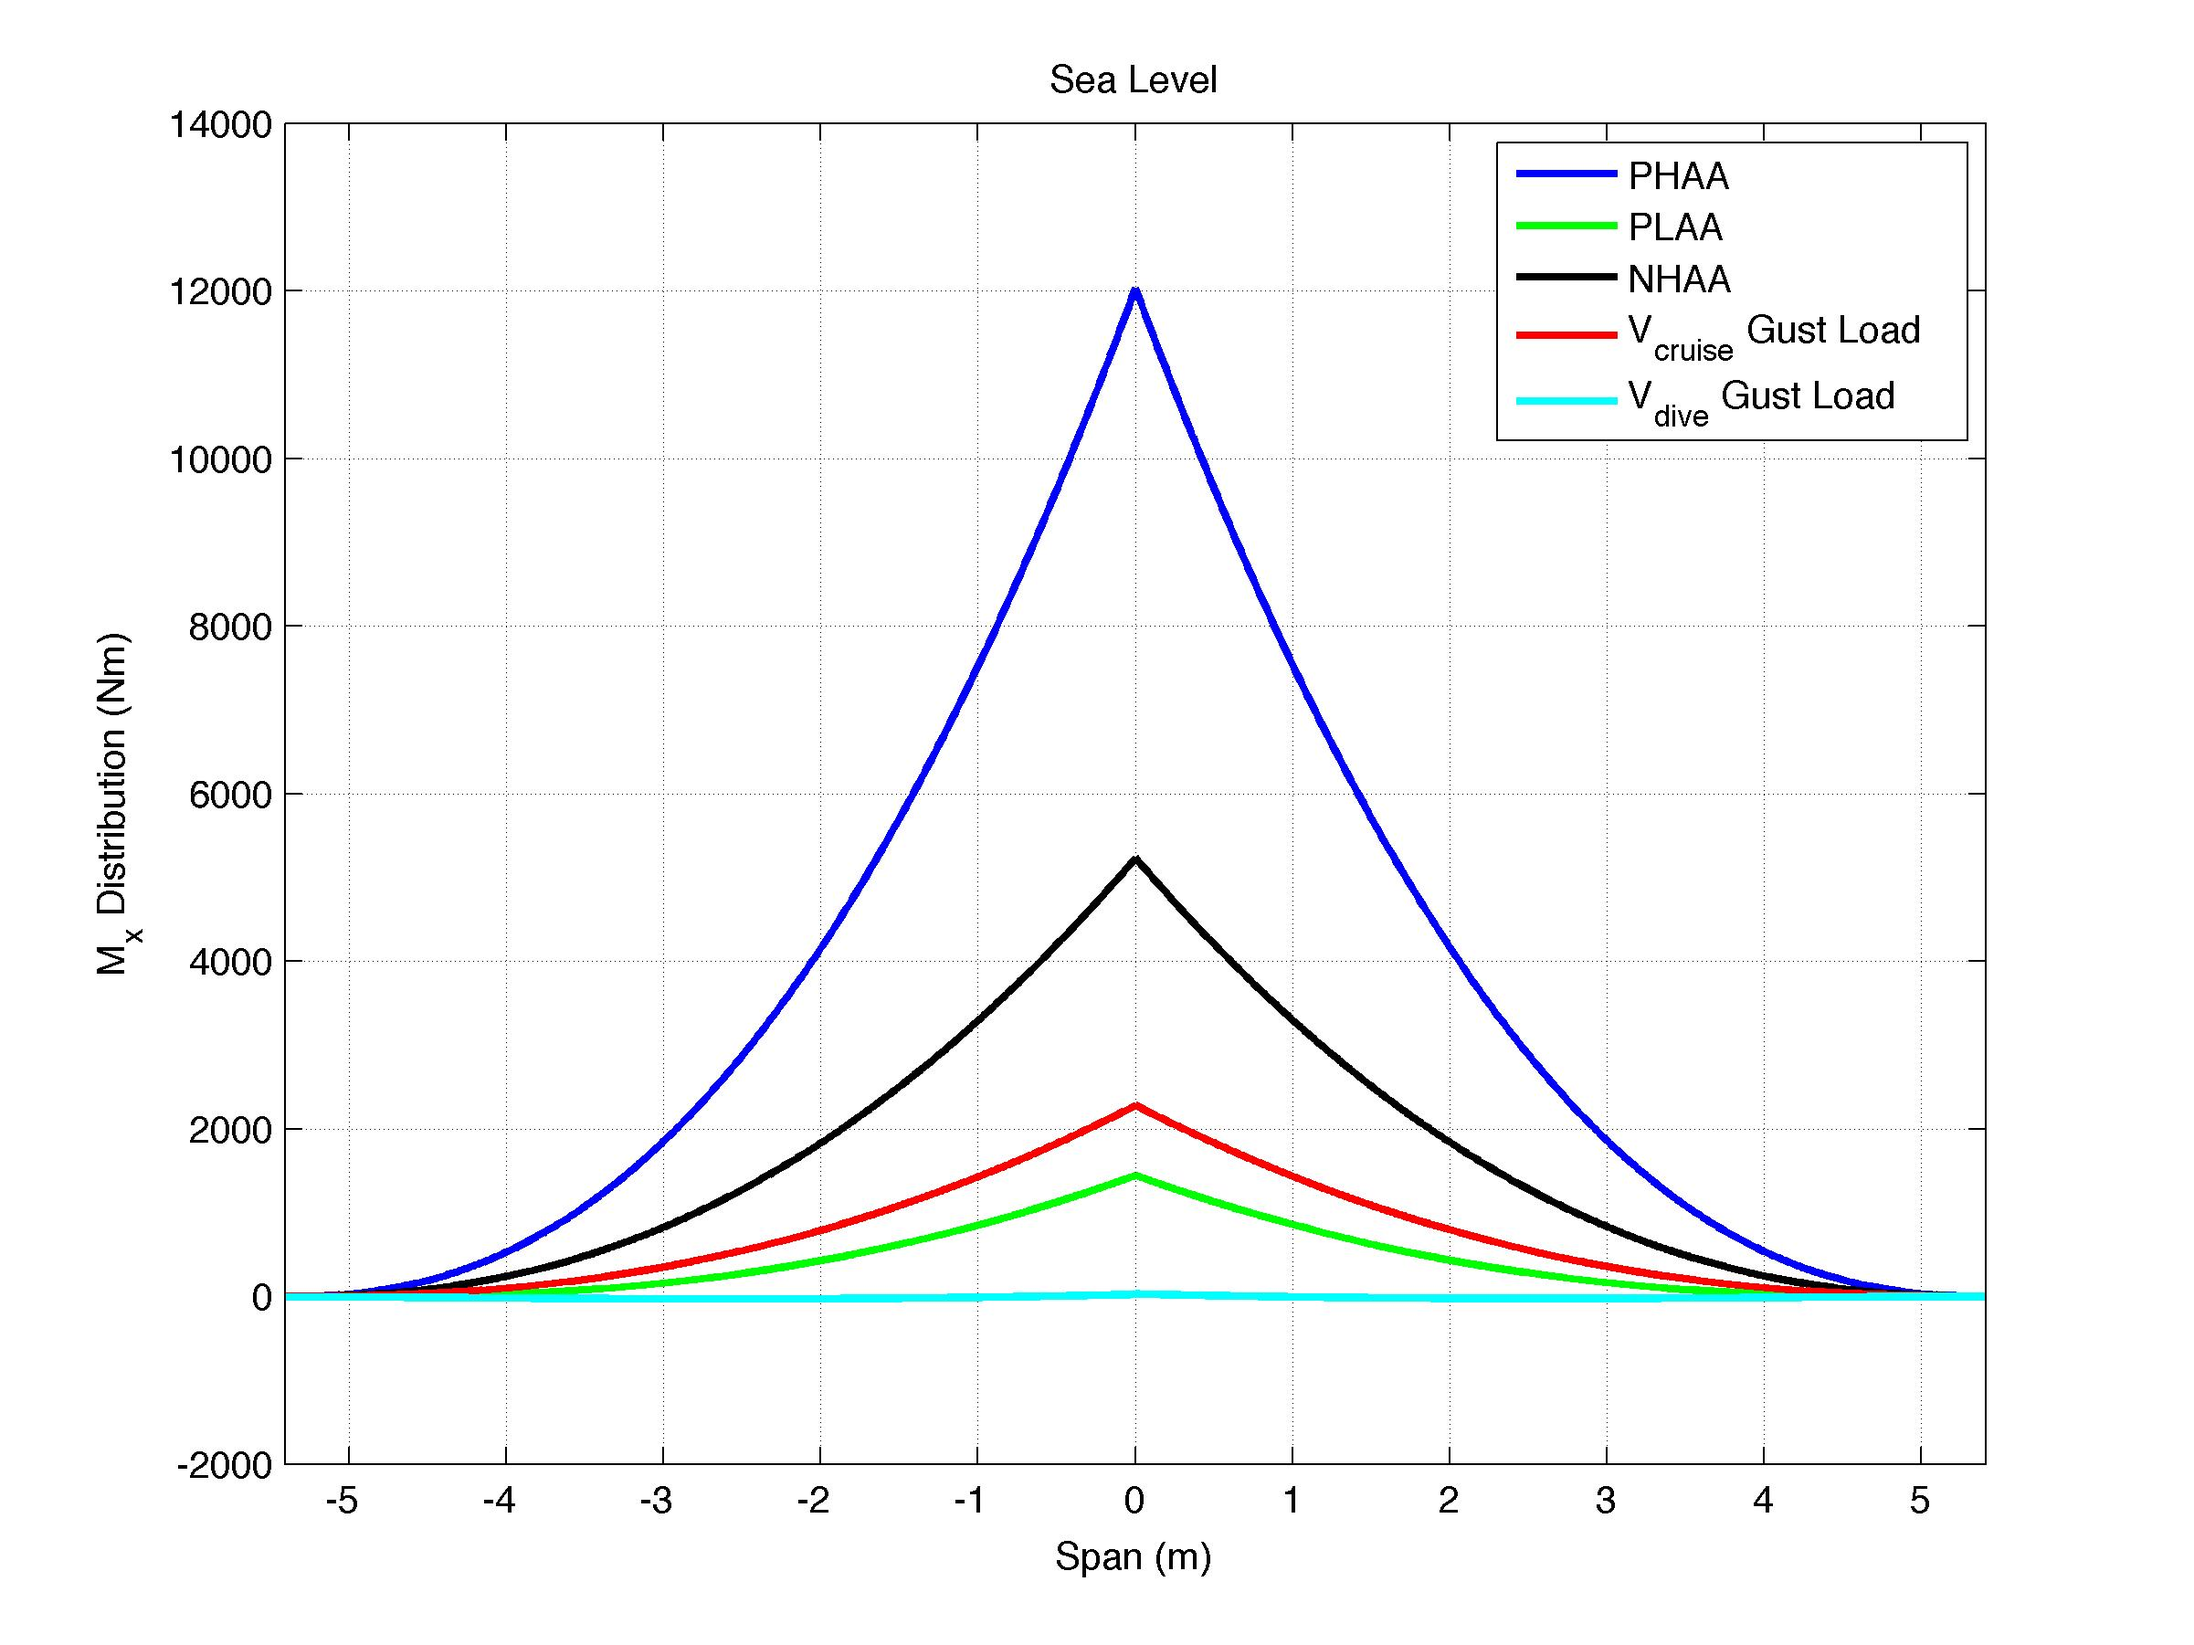
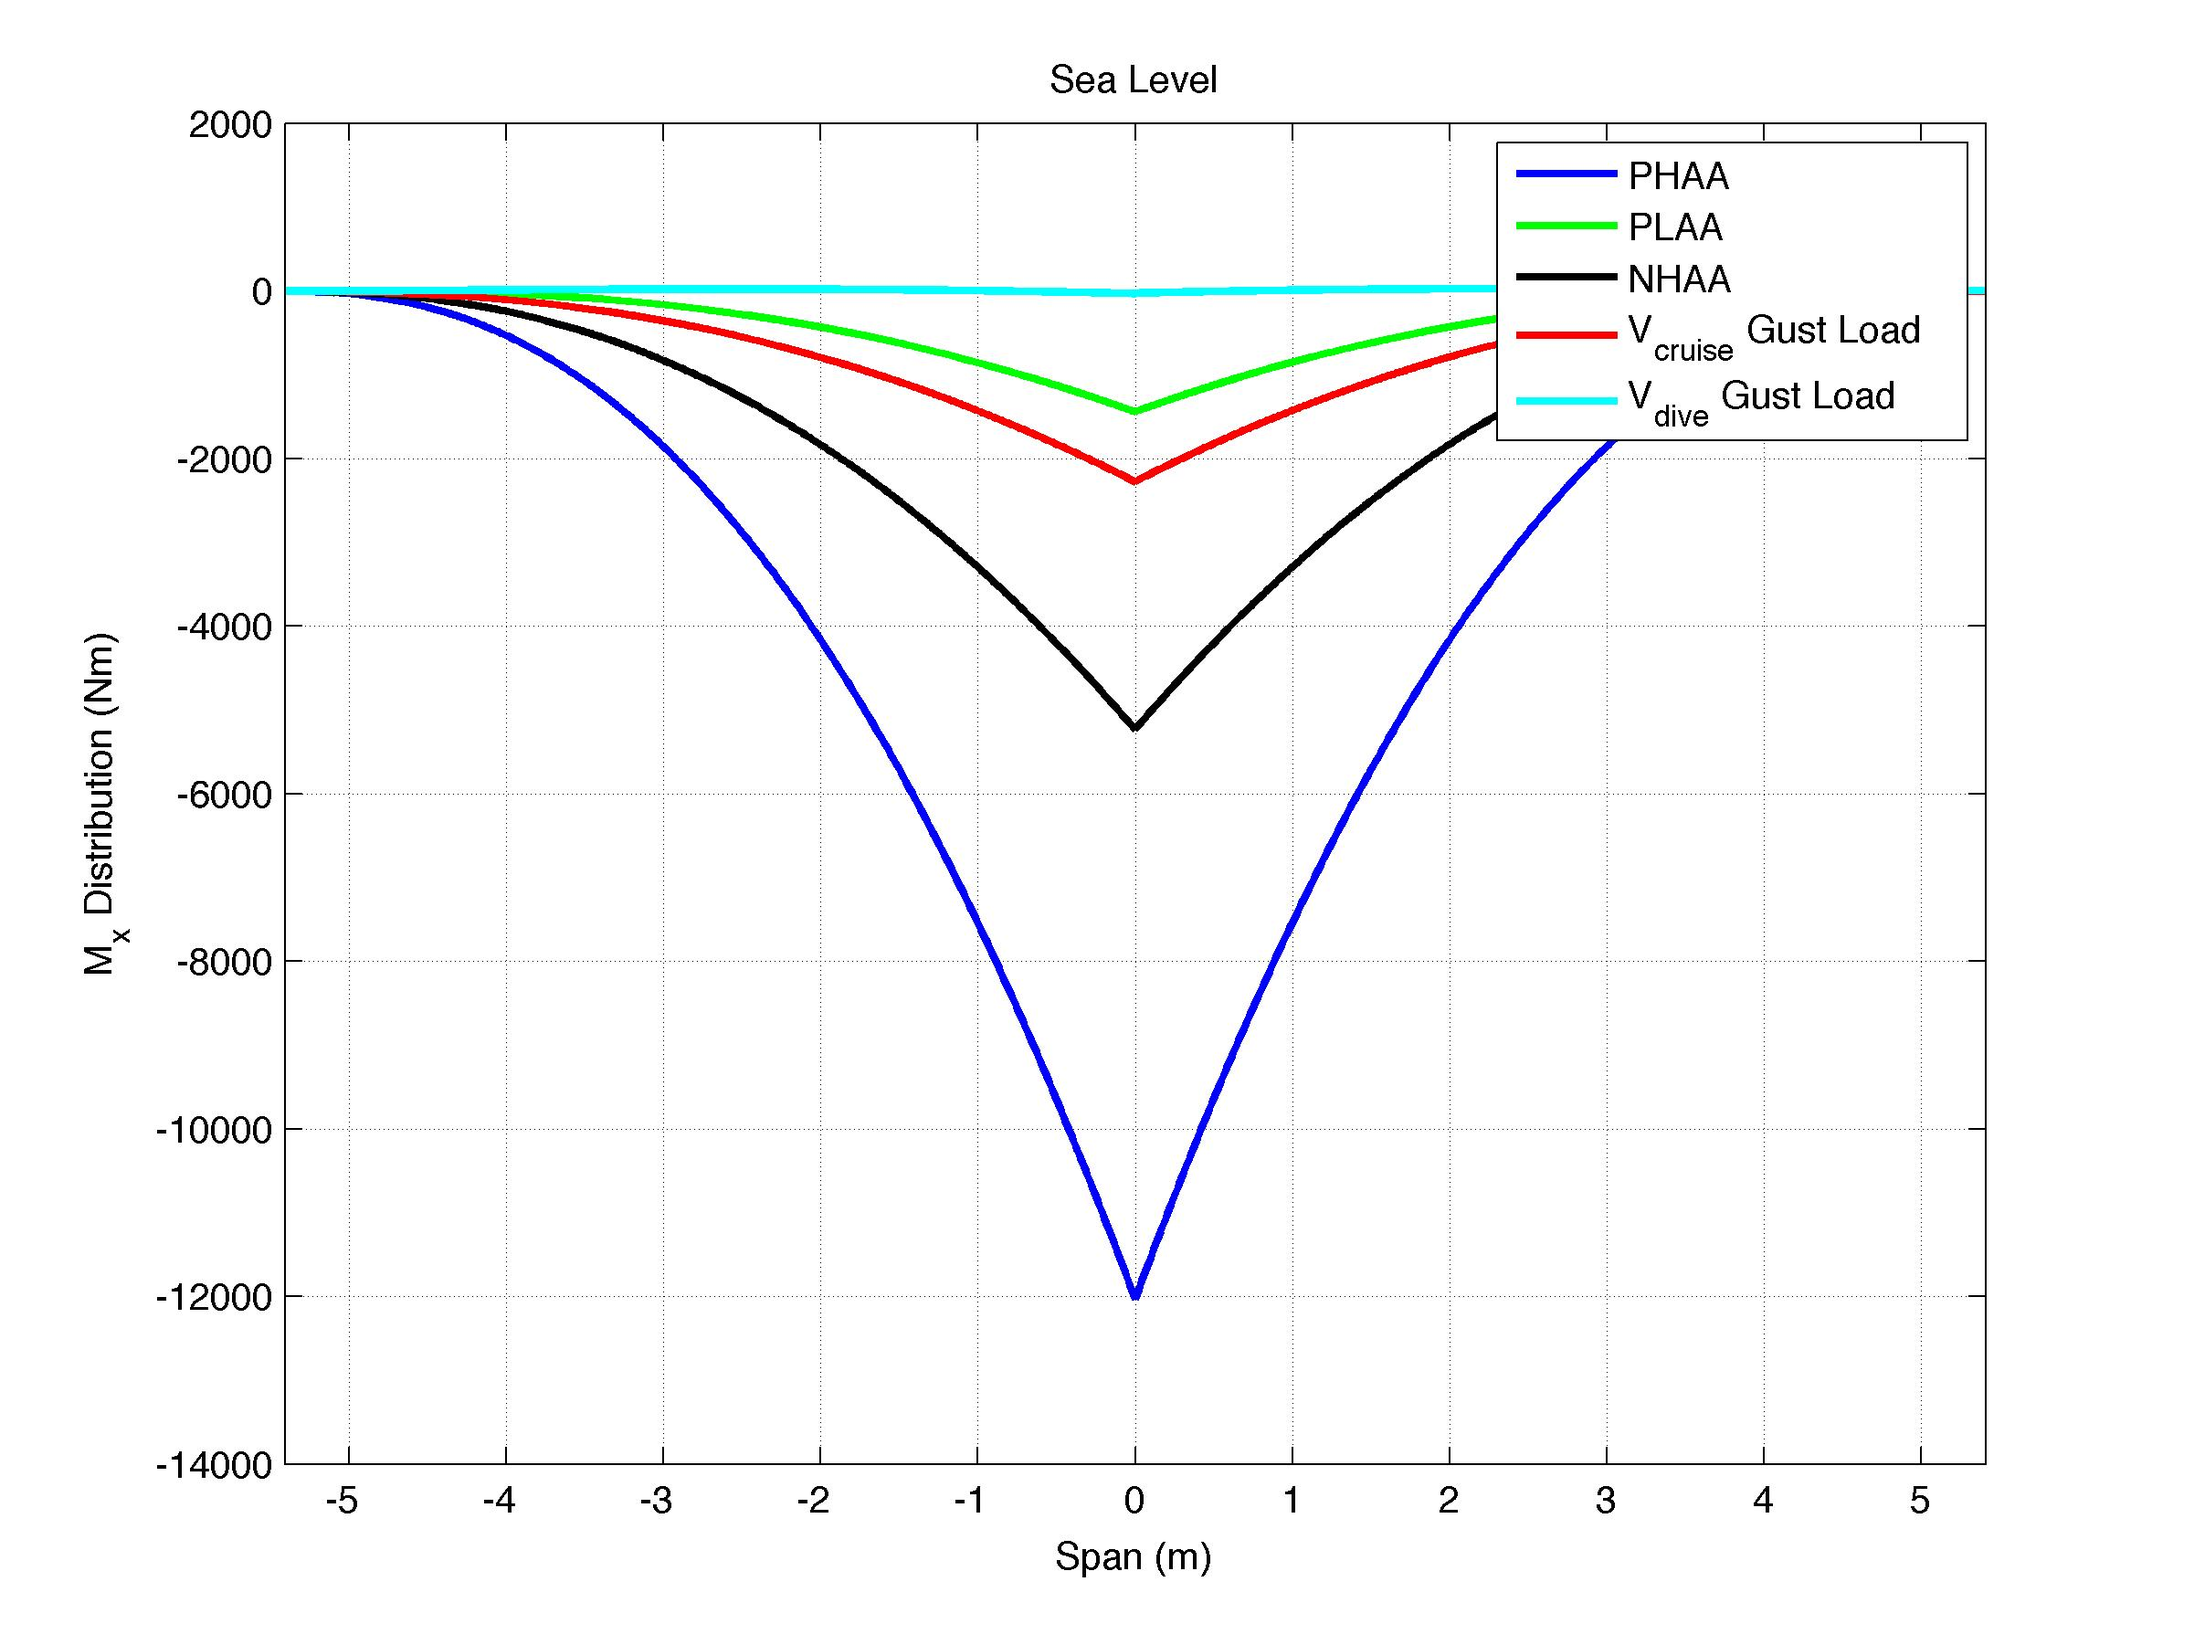
IT WORKS IT WORKS IT WORKS!!!!!!!!!!!!!!!!!!!!!!!!!!!!!!!!!!!!!!!!!!!!!!!!!!!!!!!!!!!!!!!!!!

diff --git a/main.m b/main.m
@@ -93,7 +93,7 @@ for ii = 1:length(n_allow_slvl.n)
                                     load_slvl(ii).wx0,load_slvl(ii).wy0);
         
         % calculate shear flow
-        temp_output(ii) = calc_shear_flow(Ixx,Iyy,Ixy,airf_geo,...
+        temp_output(ii).out = calc_shear_flow(Ixx,Iyy,Ixy,airf_geo,...
                                 moment_slvl(ii).Mx0, moment_slvl(ii).My0,...
                                 shear_slvl(ii).Sx0, shear_slvl(ii).Sy0,...
                                 load_slvl(ii).M0,c,Cx,Cy);             
@@ -141,7 +141,7 @@ for ii = 1:length(n_allow_slvl.n)
         % SIGMA_ZZ AT THE ROOT
         [sigma_zz_slvl(ii)] = calc_sigmazz(Ixx,Iyy,Ixy,...
                                 moment_slvl(ii).Mx0(1),moment_slvl(ii).My0(1),...
-                                airf_geo.xU,airf_geo.yU,airf_geo.xL,airf_geo.yL);
+                                airf_geo.x,airf_geo.yU,airf_geo.x,airf_geo.yL);
                             
     end
 end
@@ -321,7 +321,7 @@ for ii = 1:length(n_allow_ceil.n)
         % SIGMA_ZZ AT THE ROOT
         [sigma_zz_ceil(ii)] = calc_sigmazz(Ixx,Iyy,Ixy,...
                             moment_ceil(ii).Mx0(1),moment_ceil(ii).My0(1),...
-                            airf_geo.xU,airf_geo.yU,airf_geo.xL,airf_geo.yL);
+                            airf_geo.x,airf_geo.yU,airf_geo.x,airf_geo.yL);
     end
 end
 

diff --git a/calc_shear_flow.m b/calc_shear_flow.m
@@ -89,8 +89,8 @@ i_BL = 1:nBL;
 sz_RBL = zeros(1,nBL);
 % sz_RBL(:) = Mx0(1)*(Iyy*y_boomL(i_BL(:))-Ixy*x_boomL(i_BL(:)))/(Ixx*Iyy-Ixy^2)... 
 %           + My0(1)*(Ixx*x_boomL(i_BL(:))-Ixy*y_boomL(i_BL(:)))/(Ixx*Iyy-Ixy^2);
-sz_RBL(:) = Mx0(1)*(Iyy*y_boomL-Ixy*x_boomL)/(Ixx*Iyy-Ixy^2)... 
-          + My0(1)*(Ixx*x_boomL-Ixy*y_boomL)/(Ixx*Iyy-Ixy^2);
+sz_RBL(:) = (Mx0(1)*(Iyy*y_boomL-Ixy*x_boomL)/(Ixx*Iyy-Ixy^2))... 
+          + (My0(1)*(Ixx*x_boomL-Ixy*y_boomL)/(Ixx*Iyy-Ixy^2));
 
 
 % find boom node that is closest to stringers

diff --git a/calc_wxwy.m b/calc_wxwy.m
@@ -54,8 +54,8 @@ wx0 = -sin(AoA).*l + cos(AoA).*d;
 wy = zeros(1,nz+1);
 wx = zeros(1,nz+1);
 for i = 1:nz+1
-    wy(i) = wx0(nz+2-i);
-    wx(i) = wy0(nz+2-i);
+    wy(i) = wy0(nz+2-i);
+    wx(i) = wx0(nz+2-i);
 end
 
 load.z = z;

diff --git a/calc_shear_moments.m b/calc_shear_moments.m
@@ -40,6 +40,9 @@ for i = 1:nz;
     My_sum(i+1) = My_sum(i) + My(i+1);
 end
 
+Sx_sum = -Sx_sum;
+Sy_sum = -Sy_sum;
+
 % z-->L-z: from root to tip
 Mx0 = zeros(1,nz+1);
 My0 = zeros(1,nz+1);
